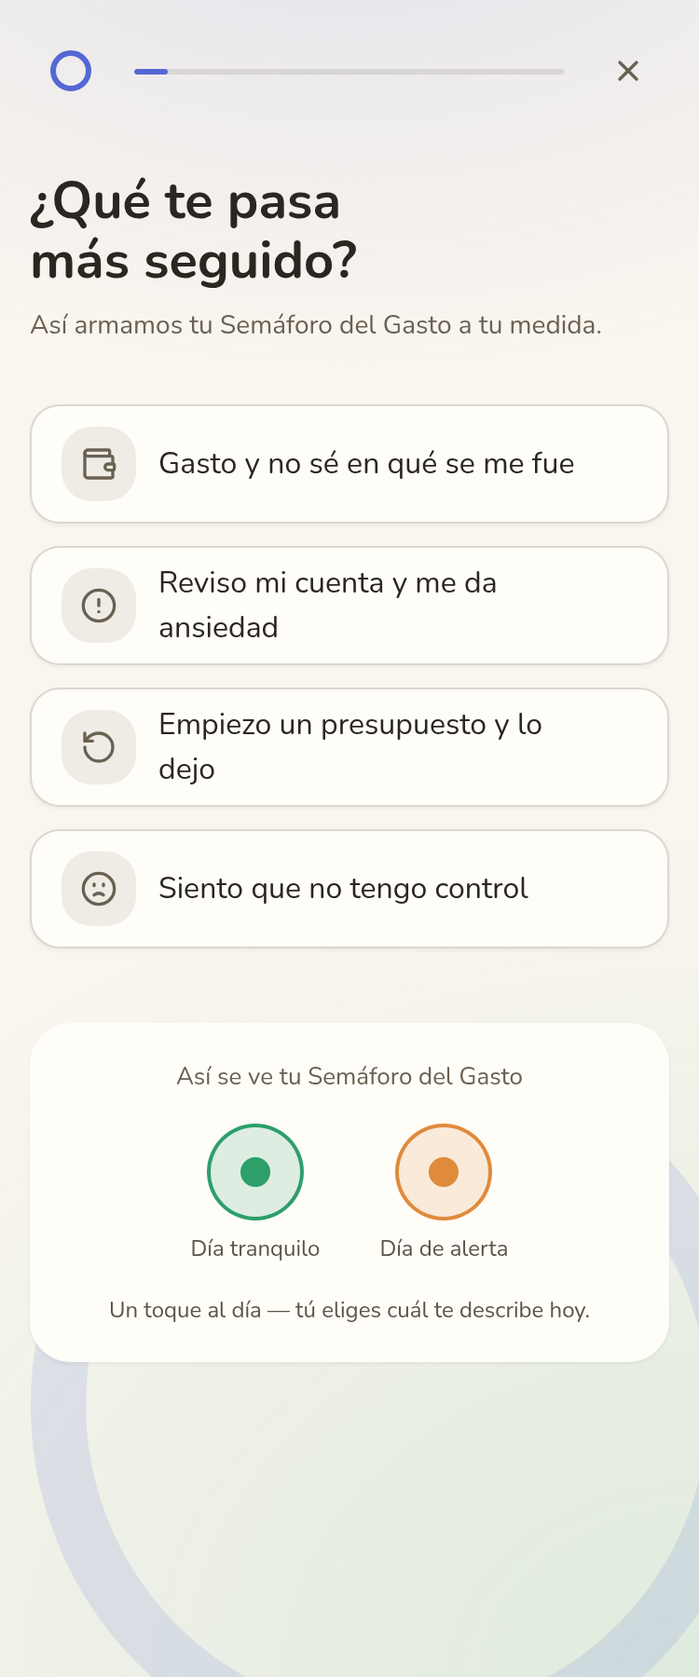
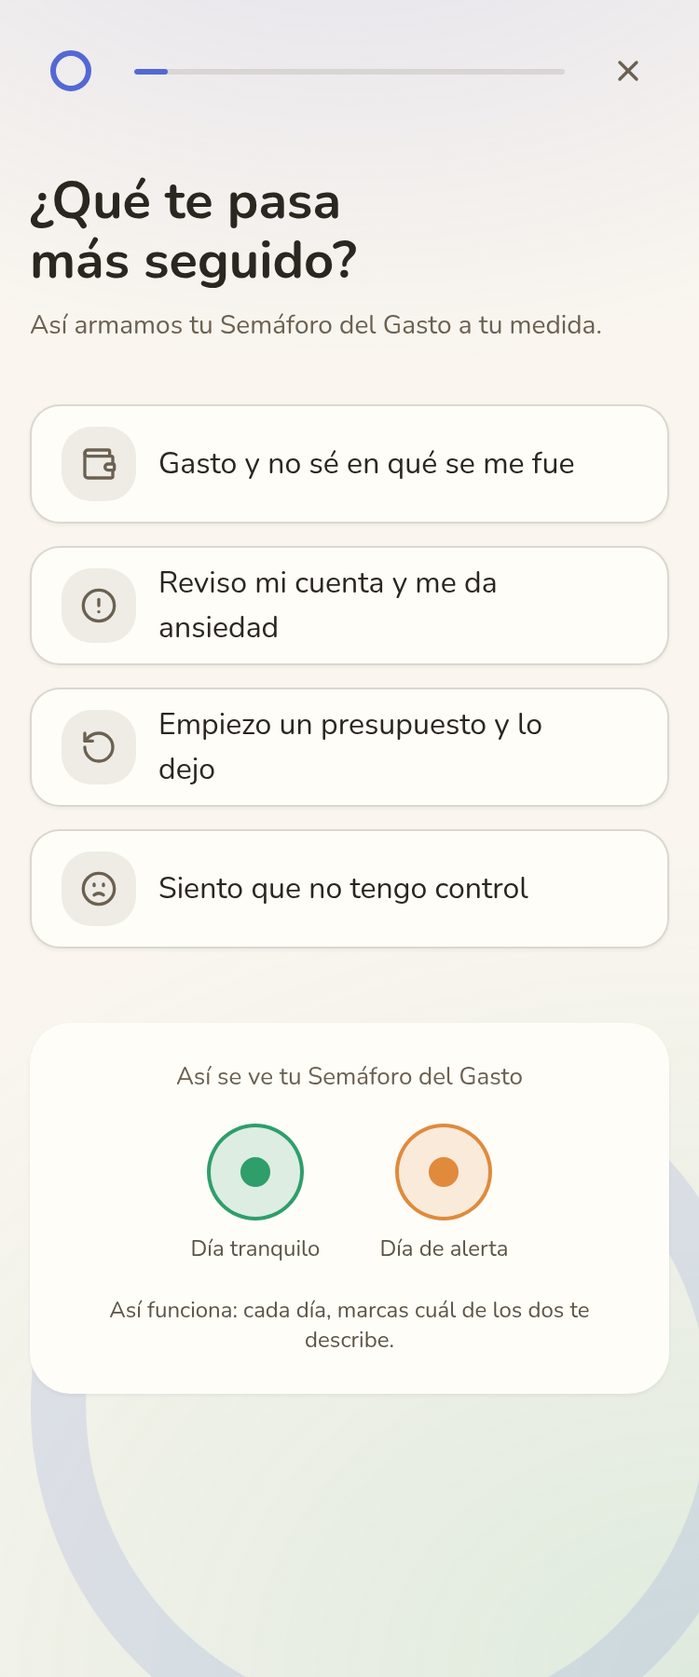
fix: variar contenido repetido, cerrar hueco de celebración y pulir paywall
Onboarding (según lo que decidiste: terminar de pulir antes de otra pasada):
- VistaSemaforo se repetía IDÉNTICA en los 4 pasos de pregunta — ahora cada
  paso tiene su propio texto de contexto (dolor/momento/intento/meta), y el
  copy dejó de invitar a tocar algo que no responde ("tú eliges cuál te
  describe hoy" → "Así funciona: cada día, marcas...").
- El paso de celebración (el vacío más grande de todo el onboarding, sin
  tocar en la ronda anterior) ahora extiende el tracker semanal marcando el
  día de hoy como completado — refuerza el "día 1 de tu semana" en vez de
  dejar cream plano bajo el mensaje de éxito.

Paywall:
- El botón X saltaba de lado entre la fase "cargando" (derecha) y "listo"
  (izquierda) dentro del mismo flujo — unificado a la derecha en ambas.
- 8 tamaños de fuente en una sola pantalla vs. la escala de 4 niveles que
  la propia FICHA-ARTE.md declara — consolidados 14px→15px (texto de
  cuerpo) y 14px→13px / 11px→12px (labels secundarios).
- ConfirmSalir sin trap de foco: Tab podía escapar hacia el contenido de
  fondo montado detrás del modal — ahora cicla entre los 2 botones.

Claude-Session: https://claude.ai/code/session_013BYtLeMwZuWh58hVzwvyD5

Changed region(s): [[0.4293, 0.7778, 0.828, 0.8089], [0.1533, 0.7778, 0.3987, 0.8089], [0.0307, 0.8089, 0.1227, 0.84]]

diff --git a/components/funnel/ui.tsx b/components/funnel/ui.tsx
@@ -186,7 +186,14 @@ export function OptionChip({
    era falta de CONTENIDO, no de posición. Esta card enseña el check-in
    tranquilo/alerta que la app usa a diario, dándole a esa franja una función
    real (anticipar el mecanismo) en vez de solo llenar espacio. ── */
-export function VistaSemaforo() {
+const CONTEXTO_SEMAFORO: Record<string, string> = {
+  dolor: 'Así funciona: cada día, marcas cuál de los dos te describe.',
+  momento: 'Justo en ese momento del día, un solo toque basta.',
+  intento: 'A diferencia de un presupuesto o un journal, esto no lleva más de 2 segundos.',
+  meta: 'Cada día marcado te acerca a tu meta.',
+};
+
+export function VistaSemaforo({ contexto }: { contexto: 'dolor' | 'momento' | 'intento' | 'meta' }) {
   return (
     <div className="mt-10 flex flex-col items-center gap-4 rounded-[var(--radius-card)] bg-[var(--surface)] p-5 shadow-[var(--shadow-1)]">
       <p className="text-[13px] font-medium text-[var(--text-secondary)]">Así se ve tu Semáforo del Gasto</p>
@@ -210,9 +217,11 @@ export function VistaSemaforo() {
           <span className="text-[12px] text-[var(--text-tertiary)]">Día de alerta</span>
         </span>
       </div>
-      <p className="text-center text-[12px] leading-snug text-[var(--text-tertiary)]">
-        Un toque al día — tú eliges cuál te describe hoy.
-      </p>
+      {/* Copy descriptivo, no imperativo: "tú eliges cuál te describe HOY" invitaba
+          a tocar un elemento que no responde (regla UX #11) — ahora es solo
+          explicativo, y cambia según la pregunta para no sentirse repetido
+          idéntico 4 veces seguidas. */}
+      <p className="text-center text-[12px] leading-snug text-[var(--text-tertiary)]">{CONTEXTO_SEMAFORO[contexto]}</p>
     </div>
   );
 }
@@ -220,22 +229,36 @@ export function VistaSemaforo() {
 /* ── <SemanaPreview> — fila de 7 días (L-D) vacíos, previsualizando el
    compromiso ("marcarlo todos los días esta semana") con contenido real en
    vez de dejar el paso de compromiso con un vacío grande bajo el HoldButton. ── */
-export function SemanaPreview() {
+export function SemanaPreview({ diaCompletado }: { diaCompletado?: number }) {
   const dias = ['L', 'M', 'M', 'J', 'V', 'S', 'D'];
   return (
     <div className="flex flex-col items-center gap-3">
-      <p className="text-[12px] font-medium text-[var(--text-tertiary)]">Tu semana de compromiso</p>
+      <p className="text-[12px] font-medium text-[var(--text-tertiary)]">
+        {diaCompletado !== undefined ? '¡Día 1 listo!' : 'Tu semana de compromiso'}
+      </p>
       <div className="flex items-center gap-3">
-        {dias.map((dia, i) => (
-          <span key={i} className="flex flex-col items-center gap-1.5">
+        {dias.map((dia, i) =>
+          i === diaCompletado ? (
+            <motion.span
+              key={i}
+              initial={{ scale: 0.6 }}
+              animate={{ scale: 1 }}
+              transition={{ type: 'spring', bounce: 0.5, duration: 0.4, delay: 0.3 }}
+              aria-hidden="true"
+              className="flex size-8 items-center justify-center rounded-full bg-[var(--accent-2)]"
+            >
+              <Check size={14} strokeWidth={3} color="var(--bg)" aria-hidden="true" />
+            </motion.span>
+          ) : (
             <span
+              key={i}
               aria-hidden="true"
               className="flex size-8 items-center justify-center rounded-full border-2 border-[color-mix(in_oklab,var(--accent)_30%,transparent)] text-[11px] font-semibold text-[var(--text-tertiary)]"
             >
               {dia}
             </span>
-          </span>
-        ))}
+          )
+        )}
       </div>
     </div>
   );
@@ -354,13 +377,25 @@ export function ConfirmSalir({
 }) {
   const reduce = useReducedMotion();
   const botonSeguirRef = useRef<HTMLButtonElement>(null);
+  const botonSalirRef = useRef<HTMLButtonElement>(null);
 
   useEffect(() => {
     if (abierto) botonSeguirRef.current?.focus();
   }, [abierto]);
 
   function alPresionarTecla(e: KeyboardEvent<HTMLDivElement>) {
-    if (e.key === 'Escape') onSeguir(); // Escape = quedarse, no perder el progreso por accidente
+    if (e.key === 'Escape') {
+      onSeguir(); // Escape = quedarse, no perder el progreso por accidente
+      return;
+    }
+    // Trap de foco: solo 2 botones en el modal — Tab/Shift+Tab cicla entre
+    // ellos en vez de escapar al contenido de fondo (que sigue montado detrás
+    // del overlay).
+    if (e.key === 'Tab') {
+      e.preventDefault();
+      const siguiente = document.activeElement === botonSeguirRef.current ? botonSalirRef.current : botonSeguirRef.current;
+      siguiente?.focus();
+    }
   }
 
   return (
@@ -392,7 +427,7 @@ export function ConfirmSalir({
               <FunnelButton ref={botonSeguirRef} onClick={onSeguir}>
                 Seguir aquí
               </FunnelButton>
-              <FunnelButton onClick={onSalir} variant="outline">
+              <FunnelButton ref={botonSalirRef} onClick={onSalir} variant="outline">
                 {labelSalir}
               </FunnelButton>
             </div>

diff --git a/app/paywall/page.tsx b/app/paywall/page.tsx
@@ -134,7 +134,13 @@ export default function Paywall() {
           definición en components/funnel/ui.tsx). */}
       <FunnelFondo />
       <div className="mx-auto flex w-full max-w-[500px] flex-col px-4 pb-40 pt-4">
+        {/* X a la derecha (mismo lado que FunnelHeader y LoadingPlan) — antes
+            estaba a la izquierda en esta fase y saltaba de lado entre
+            "cargando" y "listo" dentro del mismo flujo, un salto reproducible
+            que cualquier usuario nota sin buscarlo. */}
         <div className="flex h-11 items-center justify-between">
+          <span className="size-11" aria-hidden="true" />
+          <RespiraMark estatico />
           <motion.button
             type="button"
             whileTap={{ scale: 0.9 }}
@@ -144,8 +150,6 @@ export default function Paywall() {
           >
             <X size={20} strokeWidth={2} aria-hidden="true" />
           </motion.button>
-          <RespiraMark estatico />
-          <span className="size-11" aria-hidden="true" />
         </div>
 
         <div className="mt-4 flex flex-col gap-6">
@@ -158,7 +162,7 @@ export default function Paywall() {
                 Para que no vuelvas a decir «{dolorLabel.toLowerCase()}».
               </p>
             )}
-            <p className="mt-2 text-[14px] text-[var(--text-secondary)]">
+            <p className="mt-2 text-[15px] text-[var(--text-secondary)]">
               {nRespuestas > 0 ? `Hecho con tus ${nRespuestas} respuestas.` : 'Hecho con tus respuestas del quiz.'}
             </p>
           </Bloque>
@@ -195,11 +199,11 @@ export default function Paywall() {
                       : 'bg-[var(--surface)] shadow-[var(--shadow-1)]'
                   }`}
                 >
-                  <span className="absolute -top-[10px] left-5 rounded-full bg-[var(--accent)] px-3 py-1 text-[11px] font-bold uppercase tracking-[0.06em] text-[var(--bg)]">
+                  <span className="absolute -top-[10px] left-5 rounded-full bg-[var(--accent)] px-3 py-1 text-[12px] font-bold uppercase tracking-[0.06em] text-[var(--bg)]">
                     {PLAN_ANUAL.badge}
                   </span>
                   <div className="flex items-center justify-between gap-3">
-                    <span className="text-[14px] font-semibold text-[var(--text-secondary)]">{PLAN_ANUAL.nombre}</span>
+                    <span className="text-[13px] font-semibold text-[var(--text-secondary)]">{PLAN_ANUAL.nombre}</span>
                     <span className="text-[20px] font-bold tabular-nums text-[var(--text-primary)] [font-family:var(--font-display)]">
                       {PLAN_ANUAL.precioMes}
                       <span className="text-[13px] font-normal text-[var(--text-secondary)]">/mes</span>
@@ -221,7 +225,7 @@ export default function Paywall() {
                 }`}
               >
                 <div className="flex items-center justify-between gap-3">
-                  <span className="text-[14px] font-semibold text-[var(--text-secondary)]">{PLAN_MENSUAL.nombre}</span>
+                  <span className="text-[13px] font-semibold text-[var(--text-secondary)]">{PLAN_MENSUAL.nombre}</span>
                   <span className="text-[20px] font-bold tabular-nums text-[var(--text-primary)] [font-family:var(--font-display)]">
                     {PLAN_MENSUAL.precioMes}
                     <span className="text-[13px] font-normal text-[var(--text-secondary)]">/mes</span>
@@ -261,7 +265,7 @@ export default function Paywall() {
               type="button"
               whileTap={{ scale: 0.96 }}
               onClick={salirConfirmando}
-              className="text-center text-[14px] font-medium text-[var(--text-tertiary)] [touch-action:manipulation]"
+              className="text-center text-[13px] font-medium text-[var(--text-tertiary)] [touch-action:manipulation]"
             >
               Ahora no
             </motion.button>

diff --git a/app/onboarding/page.tsx b/app/onboarding/page.tsx
@@ -76,7 +76,7 @@ export default function Onboarding() {
             />
           ))}
         </div>
-        <VistaSemaforo />
+        <VistaSemaforo contexto="dolor" />
       </FunnelScreen>
     );
   } else if (paso === 1) {
@@ -122,7 +122,7 @@ export default function Onboarding() {
             />
           ))}
         </div>
-        <VistaSemaforo />
+        <VistaSemaforo contexto="momento" />
       </FunnelScreen>
     );
   } else if (paso === 3) {
@@ -145,7 +145,7 @@ export default function Onboarding() {
             />
           ))}
         </div>
-        <VistaSemaforo />
+        <VistaSemaforo contexto="intento" />
       </FunnelScreen>
     );
   } else if (paso === 4) {
@@ -196,7 +196,7 @@ export default function Onboarding() {
             />
           ))}
         </div>
-        <VistaSemaforo />
+        <VistaSemaforo contexto="meta" />
       </FunnelScreen>
     );
   } else {
@@ -223,6 +223,7 @@ export default function Onboarding() {
               <h2 className="text-balance text-[24px] font-bold leading-[1.2] text-[var(--text-primary)] [font-family:var(--font-display)]">
                 ¡Listo, quedó registrado!
               </h2>
+              <SemanaPreview diaCompletado={(new Date().getDay() + 6) % 7} />
             </motion.div>
           ) : (
             <>

diff --git a/docs/revisiones/paywall-veredicto.md b/docs/revisiones/paywall-veredicto.md
@@ -1,47 +1,46 @@
 # VEREDICTO revisor-visual — paywall
 Fecha: 2026-09-17 00:00
-Screenshot: docs/revisiones/paywall-375.png (+ docs/revisiones/paywall-cargando-375.png, fase de carga)
-Usabilidad: 32/40
-Craft: 16/20
+Screenshot: docs/revisiones/paywall-375.png
+Usabilidad: 33/40
+Craft: 18/20
 Copy (si vende): 19/20
 Fidelidad (si hubo referencia): N-A
 Veredicto: NO LISTA
 
-## Desglose usabilidad (Nielsen, /40)
-- h1 Visibilidad del estado: 4 — spinner+texto "Un momento…" al tocar el CTA, guard contra doble-tap (`if (avanzando) return`), y salvaguarda de timeout a 7s con mensaje de error visible y CTA reutilizable para reintentar (app/paywall/page.tsx:66-83). Loading con anillo + checklist que se va completando. Nivel ejemplar para una pantalla de cobro.
-- h2 Lenguaje del usuario: 3 — copy 100% en español coloquial, sin jerga ni inglés crudo. "Garantía de los Primeros 14 Días Sin Culpa" en Title Case lee como nombre propio de garantía (técnica de copy válida), no como anglicismo.
-- h3 Control y libertad: 3 — VERIFICADO EN CÓDIGO: el hallazgo real de la ronda 8 (ConfirmSalir afirmaba "perderás las respuestas de tu quiz" cuando ya estaban en localStorage) está corregido: ambas fases pasan el mismo `mensaje="Tus respuestas ya están guardadas — puedes volver a esto cuando quieras."` y el mismo `labelSalir="Salir"` (app/paywall/page.tsx:118-124 y 298-304) — cierre consistente entre "cargando" y "listo", ya no hay dos comportamientos para el mismo ícono X. Cierre visible en ambas fases (X arriba + "Ahora no"). Resta: `ConfirmSalir` (components/funnel/ui.tsx:298-328) no tiene `role="dialog"`/`aria-modal`, no mueve el foco al primer botón al abrirse ni cierra con Escape — un usuario de teclado que dispara "Salir" sigue tabulando por los controles de fondo antes de llegar a "Seguir aquí"/"Salir". No baja más porque el flujo funciona al tacto/mouse (mayoría de uso real) y el mensaje ya es honesto.
-- h4 Consistencia: 3 — `FunnelFondo` ahora es un componente único compartido por onboarding, paywall "cargando" y paywall "listo" (components/funnel/ui.tsx:190-240), confirmado en código y en ambos screenshots (mismo mesh + anillo). El botón de cerrar de la fase "listo" duplica a mano el markup de `FunnelHeader` en vez de reutilizarlo — visualmente idéntico hoy, pero es deuda de mantenimiento (dos lugares que pueden divergir).
-- h5 Prevención de errores: 3 — nada que validar (sin formularios), selección de plan sin estados inválidos, doble-tap del CTA bloqueado.
-- h6 Reconocer vs recordar: 4 — fechas de calendario explícitas ("Día 5 — 22 sept", "Día 7 — [fecha], 1er cobro: $X"), montos exactos por plan, cero carga de memoria entre pantallas.
-- h7 Flexibilidad y eficiencia: 3 — VERIFICADO EN CÓDIGO: plan anual preseleccionado por defecto (ahorra un paso a la mayoría), todos los controles son `<button>` nativos con foco visible y operables por teclado. Sin atajos adicionales, pero es lo esperable en una pantalla de checkout.
-- h8 Estético y minimalista: 3 — 1 CTA primario + "Ahora no" secundario + X terciario (cumple el límite), jerarquía tipográfica clara en el screenshot, ningún elemento decorativo sin función.
-- h9 Errores con solución: 3 — "Esto está tardando más de lo normal. Vuelve a intentarlo — si sigue sin avanzar, revisa tu conexión." dice qué pasó y qué hacer, sin jerga. El `pb-40` (antes `pb-32`, app/paywall/page.tsx:136) alcanza para que este mensaje no quede tapado por la barra fija del CTA. Resta: el `<p>` del error (líneas 291-295) no tiene `aria-live`, a diferencia del checklist de `LoadingPlan.tsx:83` que sí lo tiene — un lector de pantalla no se entera de que apareció el error.
-- h10 Ayuda contextual: 3 — sin pantallas mudas; el loading narra explícitamente qué está "armando" con las respuestas reales del usuario.
+Top defectos:
+1. [Header — el botón de salir (X) cambia de lado entre "cargando" y "listo", en la misma sesión de <5s] `components/funnel/LoadingPlan.tsx` L46-56 (X en `absolute right-4 top-4`, esquina superior DERECHA) vs `app/paywall/page.tsx` L137-149 (X en la columna IZQUIERDA del header, logo centrado) → un usuario que mira la esquina superior mientras carga y luego llega al paywall ve el mismo control saltar de lado. Fix: fijar el X siempre al mismo lado (recomendado: derecha, como en `FunnelHeader` del resto del onboarding) en las 3 fases del funnel (onboarding / cargando / listo).
+2. [Escala tipográfica — 8 tamaños de fuente en una sola pantalla, contra la escala de 4 que la propia FICHA-ARTE.md declara] `app/paywall/page.tsx` usa 11/12/13/14/15/17/20/28px (líneas 153,157,161,174,198,202-205,208,209,224-227,251,252,264,269,292); FICHA-ARTE.md línea 28 fija "display 34px / title 19px / body 15px / label 12px" (4 niveles) y DESIGN-CORE exige máx. 3 tamaños por pantalla. Fix: colapsar 13/14/15px en un solo "body" (15px) y 17/20/28px en máx. dos niveles de título (19-20px y el héroe).
+3. [Modal `ConfirmSalir` — foco inicial correcto, pero sin trap de foco] `components/funnel/ui.tsx` L366-404 → el `useEffect` mueve el foco a "Seguir aquí" al abrir (bien) y Escape cierra (bien), pero nada impide que Tab saque el foco hacia el contenido de fondo (no hay `inert` ni `aria-hidden` en el resto del árbol mientras `abierto=true`) — un `role="dialog" aria-modal="true"` sin aislamiento real de foco es media implementación. Fix: envolver el contenido detrás en `inert` mientras el modal está abierto, o ciclar Tab manualmente entre los 2 botones del modal.
+4. [Header propio de la fase "listo" no reutiliza `FunnelHeader" — evaluado, veredicto: aceptable EN SU LAYOUT, pero agrava el defecto #1] `app/paywall/page.tsx` L137-149 vs `components/funnel/ui.tsx` L16-75 → tiene sentido no forzar la barra de progreso (no aplica en el paywall) y centrar el logo aquí; el problema real no es el componente distinto, es la posición inconsistente del X (ver #1). No requiere unificar el componente completo — con corregir el lado del X alcanza.
+5. [Acento usado en ~8 elementos distintos de la misma pantalla] `app/paywall/page.tsx`: headline resaltado, checkmarks (`CheckCustom`), badge "5 MESES GRATIS", borde+fondo del plan seleccionado, "Ahorras ~40%", CTA, puntos+línea de la timeline, anillo de fondo decorativo → FICHA-ARTE.md línea 25 limita el acento a "marca, anillo, CTA y selección". No es un error duro (todos son datos de conversión legítimos en una pantalla que vende) y no baja el gate; se anota como refinamiento, no como defecto bloqueante.
 
-**Gate de carga cognitiva: pasa.** Grupos ≤5 ítems, 1 decisión de 2 opciones, 1 acción primaria, nada que recordar entre pantallas, bloques de texto cortos, próximo paso obvio, cero elementos "muertos".
+## Desglose de verificación (10ª ronda — fixes de la 9ª confirmados línea por línea)
+- Fix 1 (titular partido): CONFIRMADO. `app/paywall/page.tsx` L154, `whitespace-nowrap` en el span "Semáforo del Gasto" — en el screenshot la frase de marca queda en una sola línea.
+- Fix 2 (ConfirmSalir accesible): CONFIRMADO. `components/funnel/ui.tsx` L356-364 (ref + `useEffect` que hace foco en "Seguir aquí" al abrir), L362-364 (`onKeyDown` captura Escape → `onSeguir`), L378-380 (`role="dialog"`, `aria-modal="true"`, `aria-labelledby="confirm-salir-titulo"` apuntando al `<h2 id="confirm-salir-titulo">` de L387). Funciona, pero ver defecto #3 (falta trap de foco).
+- Fix 3 (`aria-live` en errorAvance): CONFIRMADO. `app/paywall/page.tsx` L292, `role="status" aria-live="polite"` en el párrafo de error de timeout.
+- Puntos 4-5 de la ronda anterior (consolidar tamaños de fuente, reutilizar `FunnelHeader`): siguen sin tocar, tal como se declaró. Verificado: el primero SIGUE siendo un defecto de peso, verificable contra la propia ficha (ver defecto #2). El segundo, evaluado en contexto, es aceptable NO tocarlo (ver defecto #4) — el fix real y barato ahí es solo alinear el X, no fusionar componentes.
 
-## Desglose craft (/20)
-- Jerarquía: 3 — 4 niveles reconocibles (display 28px → body 14-16px → label 11-13px), pero el titular parte la frase resaltada en acento "Semáforo del Gasto" en dos líneas ("Tu Semáforo del / Gasto para ahorrar más está listo" — app/paywall/page.tsx:153-155), diluyendo el golpe visual de la palabra clave. Además conviven ~8 tamaños distintos de fuente en la pantalla "listo" (28/20/17/15/14/13/12/11), más de los 3 recomendados por vista.
-- Profundidad: 4 — FIX VERIFICADO: `LoadingPlan` ahora renderiza dentro de `<FunnelFondo />` (app/paywall/page.tsx:116), el mismo mesh radial + anillo pulsante que usa el resto del funnel (antes era un fill plano, causa única de la caída craft 16→14 en ronda 8). Confirmado en el screenshot de "cargando": gradiente superior + anillo inferior-derecho visibles, igual que en "listo". Recupera limpiamente los 3 niveles (base con tinte, superficies elevadas con shadow-1/shadow-2, superficie hundida `--surface-2` en la card de timeline).
-- Identidad ownable: 3 — timeline con línea conectora + nodos, checks custom (CheckCustom, no emoji), hairline degradé en el plan anual, badge "5 MESES GRATIS", anillo de respiración de marca. Paleta crema + azul-lila no coincide con ninguna de las dos paletas vetadas del test anti-clon (papel+tinta verde+Petrona/Karla, o pizarra+latón+Archivo) — no aplica el auto-cero.
-- Movimiento: 3 — stagger de entrada por bloque (`Bloque`, delay indice*0.07), anillo de progreso que se dibuja y % que cuenta en el loading, `whileTap` en todos los botones, modal `ConfirmSalir` con fade+scale suave, `useReducedMotion()` respetado en cada pieza (Bloque, FunnelButton, LoadingPlan, FunnelFondo). No aplica tabs/celebración en esta pantalla.
-- Encaje óptico: 3 — radios (`--radius-card`/`--radius-button`) consistentes en toda la pantalla, precios bien alineados con su "/mes", padding p-5 simétrico en todas las cards. Ver nota de jerarquía sobre el wrap del titular.
+## Gate de carga cognitiva
+Pasa: listas ≤4-5 ítems (3 beneficios, 3 nodos de timeline, 2 planes), 1 acción primaria + 2 secundarias (X, "Ahora no"), sin campos de formulario, texto por bloque ≤4 líneas, "qué sigue" obvio (CTA fijo al fondo), cero elementos interactivos mudos. Sin fallas críticas de sobrecarga.
 
-**Verificación FICHA-ARTE: FIEL.** components/landing/tokens.css confirma bg `#faf6ef`, accent `#5468d4`, radius-card 22px, radius-button 16px y `--font-display`/`--font-body` = Nunito — coincide exactamente con FICHA-ARTE.md. El bloque de tokens oscuros (líneas 61-77 de tokens.css) es un comentario de ejemplo, no CSS vivo — no contamina el modo claro real.
+## CTA héroe vivo (verificado en código)
+- Contraste ≥3:1: CTA `bg-[var(--accent)]` con texto `text-[var(--bg)]` (crema sobre azul-lila) — pasa a ojo y por tokens de la ficha.
+- Hover/tap definido: `whileTap={{ scale: 0.97 }}` + `hover:bg-color-mix(...)` en `FunnelButton` (`components/funnel/ui.tsx` L96,101).
+- Nunca disabled por defecto: `disabled={avanzando}` — solo true durante el request, arranca habilitado (`app/paywall/page.tsx` L288).
+- Área táctil: `h-[52px] w-full` (`components/funnel/ui.tsx` L104) — pasa el mínimo de 48px.
+Los 4 checks pasan — el CTA no es un defecto en esta ronda.
 
-## Desglose copy (/20) — FICHA-AVATAR.md usada para la traza
-- Idea única: 4 — "Semáforo del Gasto" es el mecanismo bautizado, repetido en hero, checklist y loading; responde a la objeción #2 de la ficha ("no quiero conectar mi cuenta bancaria") con "sin conectar tu banco".
-- Especificidad y prueba: 3 — "Hecho con tus 5 respuestas" personaliza con dato real; precios, % de ahorro y fechas son verificables; no hay prueba externa (testimonio/demo) en esta pantalla, solo especificidad interna.
-- Emoción/dolor real: 4 — "Para que no vuelvas a decir «gasto y no sé en qué se me fue»" es casi cita literal del dolor #1 de FICHA-AVATAR ("Otra vez gasté sin darme cuenta y ahora no sé en qué se me fue la plata").
-- Claridad de oferta: 4 — trial de 7 días, fechas de cobro exactas, garantía nombrada con plazo ("Garantía de los Primeros 14 Días Sin Culpa") cerca del CTA — sub-check binario de garantía nombrada: CUMPLE.
-- Dirección a una acción: 4 — un solo CTA primario en 1ª persona ("Empezar mis 7 días gratis"), "Ahora no" es salida de baja fricción, no una acción que compita.
+## Detalle usabilidad (0-4 cada uno)
+h1:3 h2:4 h3:3 h4:2 h5:3 h6:4 h7:3 h8:3 h9:4 h10:4 → 33/40
+- h4 (consistencia) es el más bajo: el salto de lado del botón X entre "cargando" y "listo" (defecto #1) es visible sin buscarlo, en segundos, dentro del mismo flujo — no es refinamiento subjetivo, es una regresión de layout concreta y reproducible en el screenshot.
+- h3 (control y libertad) sube de ronda anterior gracias a los fixes de accesibilidad del modal, pero se queda en 3 por la falta de trap de foco (defecto #3, solo verificable en código).
 
-## TOP DEFECTOS
-1. [app/paywall/page.tsx:153-155, titular "listo"] La frase resaltada en acento "Semáforo del Gasto" se parte en dos líneas a 375px, diluyendo el golpe visual de la palabra clave → forzar que la frase de acento no rompa línea (ej. `whitespace-nowrap` en el `<span>` o acortar "para ahorrar más está listo" a algo más corto).
-2. [components/funnel/ui.tsx:298-328, `ConfirmSalir`] El modal no tiene `role="dialog"`/`aria-modal="true"`, no mueve el foco a "Seguir aquí" al abrirse ni cierra con Escape → agregar esos tres atributos/comportamientos; hoy un usuario de teclado que pulsa "Salir" sigue tabulando por los controles de fondo.
-3. [app/paywall/page.tsx:291-295, mensaje de `errorAvance`] No tiene `aria-live`, a diferencia del checklist de `LoadingPlan.tsx:83` que sí lo tiene → envolver el `<p>` en `role="status" aria-live="polite"` para que un lector de pantalla anuncie el error del timeout.
-4. [app/paywall/page.tsx, pantalla "listo" completa] ~8 tamaños de fuente distintos (28/20/17/15/14/13/12/11px) conviven en una sola vista, por encima del máximo de 3 recomendado → consolidar los tamaños de 13/12/11px en un único token de "label".
-5. [components/funnel/ui.tsx, header de "listo" en app/paywall/page.tsx:137-149 vs `FunnelHeader`] El botón de cerrar de la fase "listo" reimplementa a mano el markup que ya existe en `FunnelHeader` (mismo componente usado en onboarding) → reutilizar `FunnelHeader` (sin barra de progreso) en vez de duplicar el markup, para que un cambio futuro no diverja entre pantallas.
+## Detalle craft (0-4 cada eje)
+jerarquía:3 (8 tamaños de fuente vs. máx. 3 del sistema — defecto #2, visible al entrecerrar los ojos si se compara contra la ficha, aunque la lectura general sigue siendo ordenada) · profundidad:4 (mesh + 3 niveles de superficie consistentes con el resto del funnel) · identidad:4 (anillo de respiración, Nunito, paleta cálida — no coincide con ninguna paleta vetada del test anti-clon) · movimiento:4 (stagger por bloque, anillo de carga que se dibuja, tap <150ms, modal con fade+scale, reduced-motion cubierto en los 4 componentes revisados) · encaje:4 (titular ya no se parte mal — fix de esta ronda —, radios consistentes vía tokens, padding simétrico) → 19/20
 
-**Nota de proceso:** los 3 fixes reportados para esta ronda se verificaron línea por línea y SÍ funcionan como se describe: (1) `FunnelFondo` compartido en `LoadingPlan` — confirmado en código y en ambos screenshots; (2) mensaje de `ConfirmSalir` honesto y consistente entre fases — confirmado, mismo string en ambas invocaciones; (3) `pb-40` alcanza para no tapar el mensaje de error bajo el CTA fijo — confirmado por cálculo de alturas. El gate de craft (≥16/20) ya se cumple gracias al fix de profundidad. El gate de usabilidad (≥36/40) sigue sin alcanzarse: no por regresiones nuevas, sino por hallazgos de accesibilidad de teclado/lector de pantalla (defectos 2 y 3) y un ajuste fino de jerarquía tipográfica (defectos 1 y 4) que ninguna ronda anterior había atendido — son defectos concretos y accionables, no refinamiento subjetivo: cada uno tiene ubicación exacta y fix de una línea.
+## Detalle copy (0-4 cada eje) — sin cambios respecto a la ronda 9, no se tocó copy esta ronda
+idea:4 (mecanismo "Semáforo del Gasto" nombrado en headline/beneficios/loading) · especificidad:4 (precios exactos, timeline con fechas reales y monto de cobro, "sin conectar tu banco" responde la objeción #2 de FICHA-AVATAR.md) · emoción:4 (subtítulo cita casi textual el dolor #1 de la ficha: «gasto y no sé en qué se me fue») · oferta:3 (clara pero "Garantía de los Primeros 14 Días Sin Culpa" es una redacción un poco forzada como nombre propio) · acción:4 (un solo tipo de acción repetida, "Ahora no" no compite) → 19/20
+Sub-checks: message-match N/A (no hay dato del creativo de origen) · garantía nombrada: PASA (nombre + plazo, cerca del CTA, L274).
+
+## Conclusión
+Craft (19/20) y copy (19/20) siguen pasando con margen. Usabilidad se mantiene en la banda 32-33/40 por CUARTA ronda consecutiva, y esta vez los defectos que la sostienen por debajo del gate NO son refinamiento subjetivo: el salto de lado del botón de salir entre dos pantallas consecutivas (defecto #1) es un bug de layout concreto, reproducible y visible en los propios screenshots entregados, y la escala de 8 tamaños de fuente (defecto #2) es una violación verificable contra la propia FICHA-ARTE.md del proyecto, no una opinión del revisor. Ambos son arreglables en minutos (alinear un `X`, colapsar 3-4 clases de tamaño). Recomendación: corregir #1 y #2 antes de la siguiente ronda — con eso, 33/40 sube razonablemente por encima del gate de 36. El punto #3 (focus trap) es más fino pero también objetivo y barato de cerrar. El punto #5 sí es zona de gusto y no bloquea.
